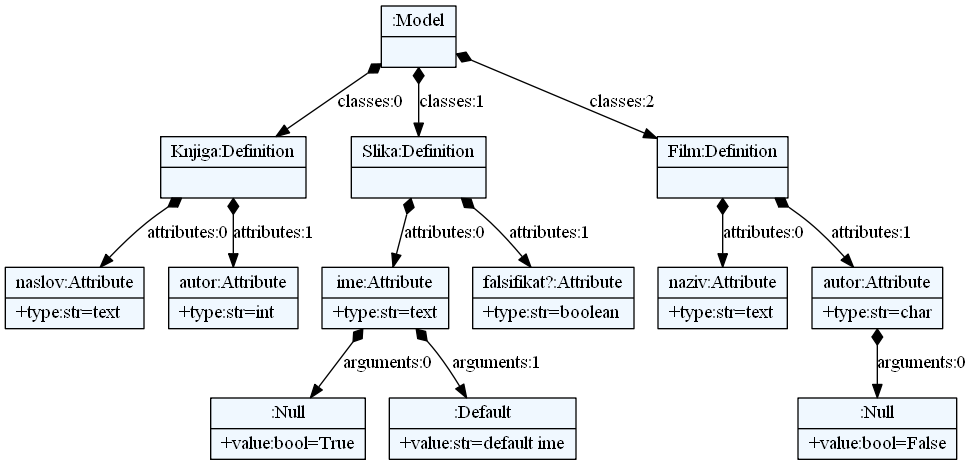
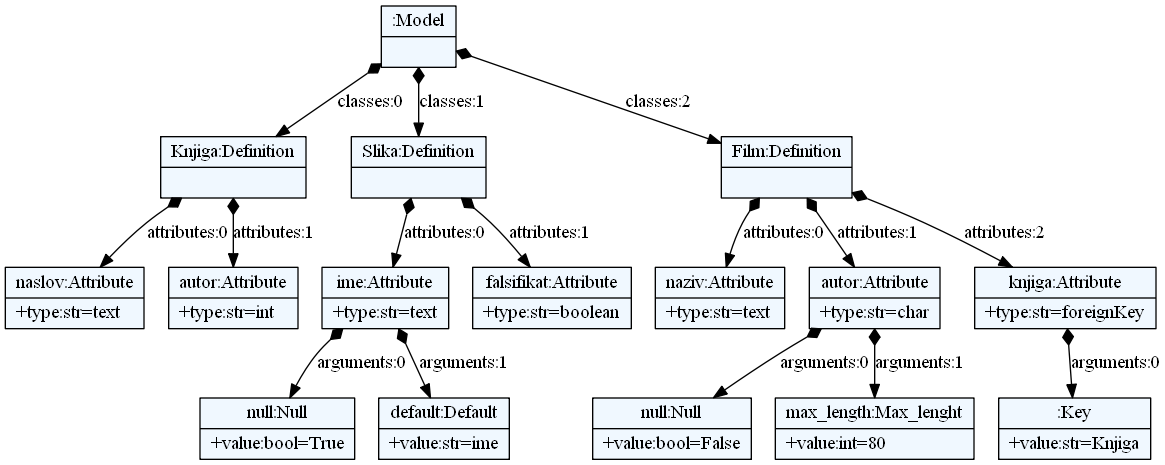
generating model classes with str method

diff --git a/jsd/src/output/models.py b/jsd/src/output/models.py
@@ -1,10 +1,23 @@
 from django.db import models
 class Knjiga(models.Model):
-	naslov = models.text
-	autor = models.IntegerField
+	naslov = models.TextField()
+	autor = models.IntegerField()
+	
+	def __unicode__(self):
+		return self.naslov    
+
 class Slika(models.Model):
-	ime = models.text
-	falsifikat? = models.boolean
+	ime = models.TextField(null=True,default="ime")
+	falsifikat = models.BooleanField()
+	
+	def __unicode__(self):
+		return self.ime    
+
 class Film(models.Model):
-	naziv = models.text
-	autor = models.CharField
+	naziv = models.TextField()
+	autor = models.CharField(null=False,max_length=80)
+	knjiga = models.ForeignKey(Knjiga)
+	
+	def __unicode__(self):
+		return self.naziv    
+
